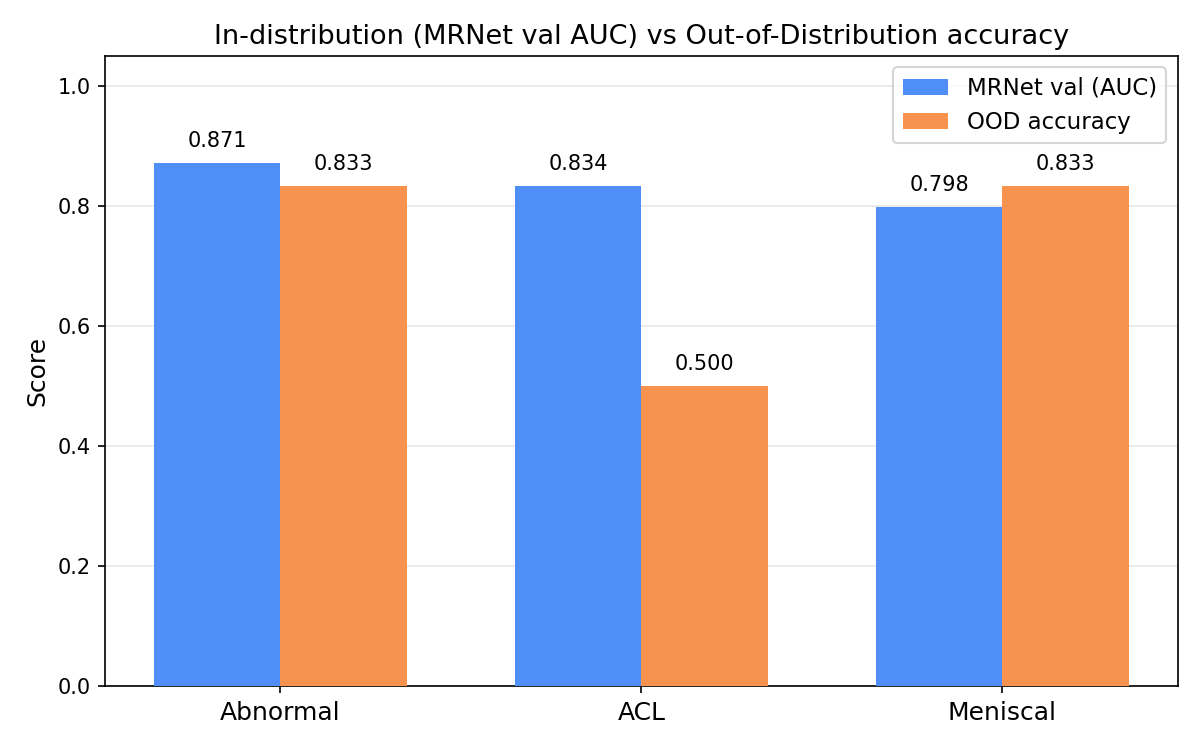
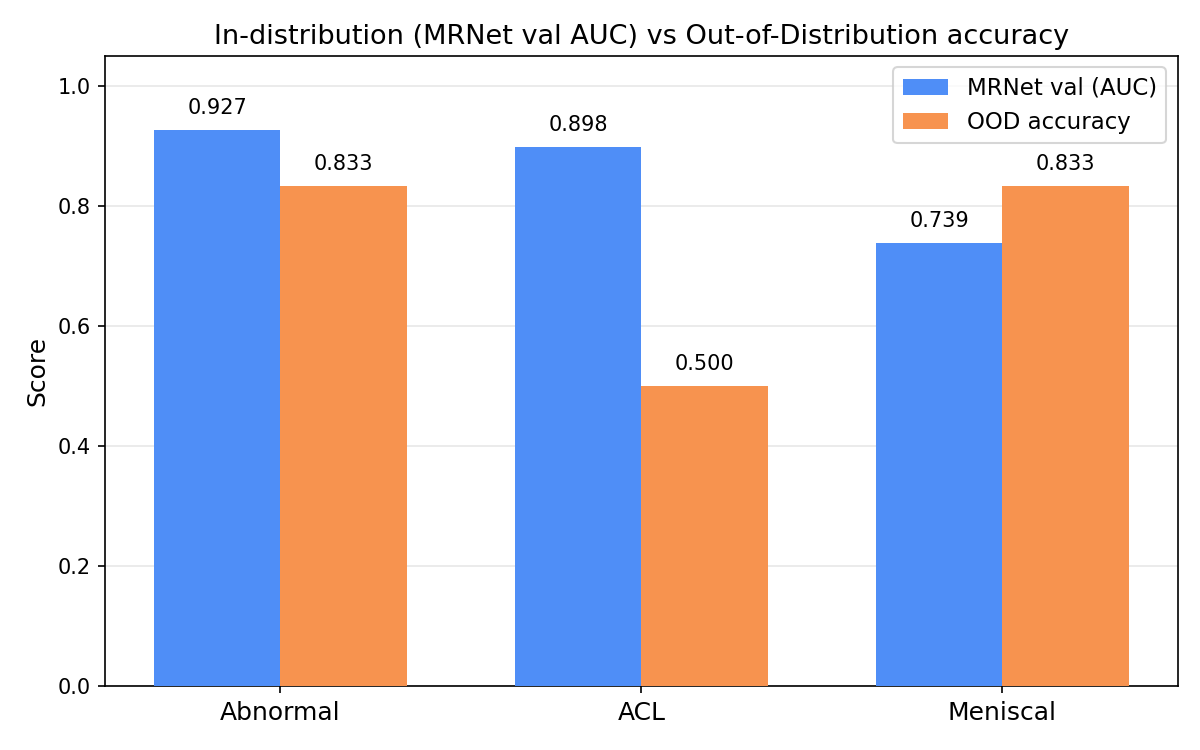
updated and rerunned ood process with latest training metric values

Changed region(s): [[0.7092, 0.2147, 0.8325, 0.3373], [0.4317, 0.1533, 0.555, 0.2453], [0.1233, 0.1227, 0.2467, 0.2147]]

diff --git a/run_ood_batch.py b/run_ood_batch.py
@@ -45,11 +45,10 @@ from model import get_model
 # Supported image extensions
 IMAGE_EXTS = {'.jpg', '.jpeg', '.png', '.bmp', '.tiff', '.tif', '.webp'}
 
-# MRNet validation AUC baseline (from your trained model — update these after training)
 MRNET_VAL_AUC = {
-    'Abnormal': 0.871,
-    'ACL':      0.834,
-    'Meniscal': 0.798,
+    'Abnormal': 0.927,
+    'ACL':      0.898,
+    'Meniscal': 0.739,
 }
 
 CONDITIONS = ['Abnormal', 'ACL', 'Meniscal']
